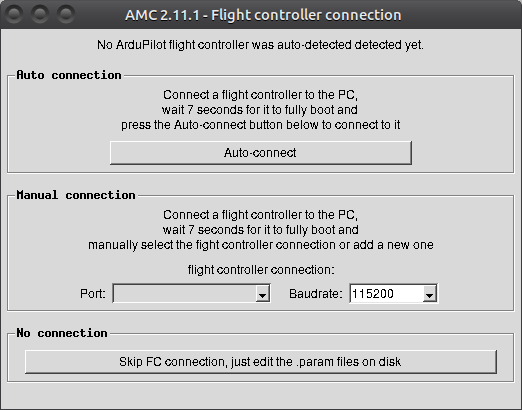
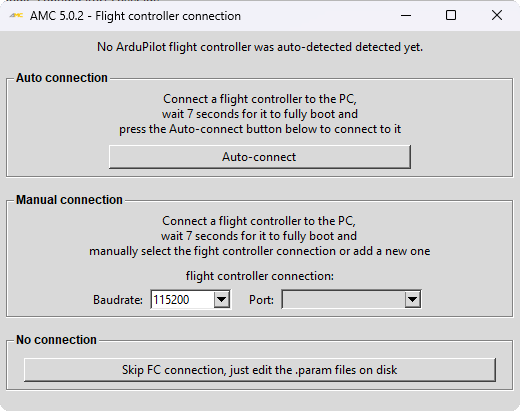
fix(connection selection): Move the baudrate selection to the left of the device selection
fixes #2334

Changed region(s): [[0.0, 0.0, 1.0, 1.0]]

diff --git a/scripts/regenerate_app_screenshots_fully_automated.py b/scripts/regenerate_app_screenshots_fully_automated.py
@@ -18,6 +18,7 @@ from __future__ import annotations
 
 import argparse
 import logging
+import os
 import platform
 import re
 import shutil
@@ -27,6 +28,7 @@ import tkinter as tk
 import tkinter.font as tk_font
 from contextlib import contextmanager
 from dataclasses import dataclass
+from datetime import UTC, datetime
 from pathlib import Path
 from tkinter import simpledialog, ttk
 from typing import TYPE_CHECKING, cast
@@ -42,6 +44,7 @@ from ardupilot_methodic_configurator.backend_filesystem import LocalFilesystem
 from ardupilot_methodic_configurator.backend_filesystem_program_settings import ProgramSettings
 from ardupilot_methodic_configurator.backend_firmware_upload import FirmwareBoardInfo, FirmwareUploadService
 from ardupilot_methodic_configurator.backend_flightcontroller import FlightController
+from ardupilot_methodic_configurator.backend_flightcontroller_files import FlightControllerLogFile
 from ardupilot_methodic_configurator.data_model_data_telemetry import (
     MessageRate,
     MessageSample,
@@ -56,6 +59,7 @@ from ardupilot_methodic_configurator.frontend_tkinter_about_popup_window import 
 from ardupilot_methodic_configurator.frontend_tkinter_base_window import BaseWindow
 from ardupilot_methodic_configurator.frontend_tkinter_connection_selection import ConnectionSelectionWindow
 from ardupilot_methodic_configurator.frontend_tkinter_fc_banner_window import FlightControllerBannerWindow
+from ardupilot_methodic_configurator.frontend_tkinter_file_browser import FileBrowserWindow, _standalone_ui_services
 from ardupilot_methodic_configurator.frontend_tkinter_firmware_upload import FirmwareUploadWindow
 from ardupilot_methodic_configurator.frontend_tkinter_flightcontroller_info import FlightControllerInfoWindow
 from ardupilot_methodic_configurator.frontend_tkinter_mavlink_inspector import MavlinkInspectorWindow
@@ -97,6 +101,7 @@ TARGETS: tuple[CaptureTarget, ...] = (
     CaptureTarget("App_screenshot_about.png", "about"),
     CaptureTarget("App_screenshot_FC_connection.png", "connection"),
     CaptureTarget("App_screenshot_FC_connection_add_another.png", "connection_add_another"),
+    CaptureTarget("App_screenshot_FC_connection_no_connection.png", "connection_no_connection"),
     CaptureTarget("App_screenshot_FC_connection_udp_forwarding.png", "connection_udp_forwarding"),
     CaptureTarget("App_screenshot_FC_info_and_param_download.png", "fc_info"),
     CaptureTarget("App_screenshot_FC_banner.png", "fc_banner"),
@@ -104,6 +109,8 @@ TARGETS: tuple[CaptureTarget, ...] = (
     CaptureTarget("App_screenshot_motor_test.png", "motor_test"),
     CaptureTarget("App_screenshot_rc_calibration.png", PLUGIN_RC_CALIBRATION),
     CaptureTarget("App_screenshot_Parameter_export.png", "parameter_export"),
+    CaptureTarget("App_screenshot_MAVFTP_browser.png", "mavftp_browser"),
+    CaptureTarget("App_screenshot_MAVFTP_remote_panel.png", "mavftp_remote_panel"),
     CaptureTarget("App_screenshot_MAVLink_inspector.png", "mavlink_inspector", variant="radio"),
     CaptureTarget("App_screenshot_MAVLink_inspector_no_radio.png", "mavlink_inspector", variant="no_radio"),
     CaptureTarget("App_screenshot_MAVLink_inspector_collapsed.png", "mavlink_inspector", variant="collapsed"),
@@ -555,13 +562,17 @@ def capture_widget(  # pylint: disable=too-many-arguments, too-many-positional-a
             if rel_right > rel_left and rel_bottom > rel_top:
                 draw.rectangle((rel_left, rel_top, rel_right, rel_bottom), outline="red", width=3)
 
-    # Crop superfluous pixels on Windows before resizing
-    if platform.system() == "Windows" and trim_windows_frame:
-        crop_left = 15
-        crop_right = 15
-        crop_bottom = 20
-        if image.width > crop_left + crop_right and image.height > crop_bottom:
-            image = image.crop((crop_left, 0, image.width - crop_right, image.height - crop_bottom))
+    # Remove the Windows shadow while retaining the title bar and all client pixels.
+    if platform.system() == "Windows" and trim_windows_frame and isinstance(widget, (tk.Tk, tk.Toplevel)):
+        left = max(widget.winfo_rootx() - x - padding, 0)
+        right = min(widget.winfo_rootx() - x + widget.winfo_width() + padding, image.width)
+        bottom = min(widget.winfo_rooty() - y + widget.winfo_height() + padding, image.height)
+        image = image.crop((left, 0, right, bottom))
+        if padding == 0:
+            image = image.convert("RGBA")
+            mask = Image.new("L", image.size, 0)
+            ImageDraw.Draw(mask).rounded_rectangle((0, 0, image.width - 1, image.height - 1), radius=8, fill=255)
+            image.putalpha(mask)
 
     if scale != 1.0:
         new_size = (round(image.width * scale), round(image.height * scale))
@@ -591,14 +602,28 @@ def _capture_about(output_path: Path, delay: float, padding: int) -> None:
         about_window.destroy()
 
 
-def _capture_connection(output_path: Path, delay: float, padding: int) -> None:
+def _capture_connection(output_path: Path, delay: float, padding: int, *, highlight_skip: bool = False) -> None:
     flight_controller = FakeConnectionFlightController()
     window = ConnectionSelectionWindow(
         cast("FlightController", flight_controller),
         "No ArduPilot flight controller was auto-detected yet.",
     )
     try:
-        capture_widget(window.root, output_path, delay, padding)
+        window.root.attributes("-topmost", 1)
+        window.root.geometry("+100+100")
+        window.root.lift()
+        pyautogui.moveTo(20, 20)
+        settle_tk(window.root)
+        highlight_boxes = None
+        if highlight_skip:
+            highlight_boxes = [
+                _required_widget_box(
+                    window.root,
+                    lambda widget: _widget_text(widget) == translate("Skip FC connection, just edit the .param files on disk"),
+                    "Could not find the skip connection button",
+                )
+            ]
+        capture_widget(window.root, output_path, delay, padding, highlight_boxes=highlight_boxes)
     finally:
         if hasattr(window, "connection_selection_widgets"):
             window.connection_selection_widgets.stop_periodic_refresh()
@@ -1392,6 +1417,8 @@ def capture_target(target: CaptureTarget, output_path: Path, args: argparse.Name
         return
 
     match action:
+        case "connection_no_connection":
+            _capture_connection(output_path, delay, padding, highlight_skip=True)
         case "connection_add_another" | "connection_udp_forwarding":
             _capture_connection_forwarding(
                 output_path,

diff --git a/ardupilot_methodic_configurator/frontend_tkinter_connection_selection.py b/ardupilot_methodic_configurator/frontend_tkinter_connection_selection.py
@@ -72,9 +72,29 @@ class ConnectionSelectionWidgets:  # pylint: disable=too-many-instance-attribute
         selection_frame = ttk.Frame(self.container_frame)
         selection_frame.pack(side=tk.TOP, pady=(4, 0))
 
+        # Create a label for baudrate
+        baudrate_label = ttk.Label(selection_frame, text=_("Baudrate:"))
+        baudrate_label.pack(side=tk.LEFT, padx=(0, 5))
+
+        # Create a combobox for baudrate selection
+        self.baudrate_var = tk.StringVar(value=str(self.default_baudrate))
+        self.baudrate_combobox = ttk.Combobox(
+            selection_frame,
+            textvariable=self.baudrate_var,
+            values=SUPPORTED_BAUDRATES,
+            state="normal",
+            width=10,
+        )
+        self.baudrate_combobox.pack(side=tk.LEFT, padx=(0, 5))
+        self.baudrate_combobox.bind("<<ComboboxSelected>>", self.on_baudrate_combobox_change, "+")
+        show_tooltip(
+            self.baudrate_combobox,
+            _("Select the baudrate for the connection\nMost flight controllers use 115200"),
+        )
+
         # Create a label for port
         port_label = ttk.Label(selection_frame, text=_("Port:"))
-        port_label.pack(side=tk.LEFT, padx=(0, 5))
+        port_label.pack(side=tk.LEFT, padx=(10, 5))
         # Load saved connection history from ProgramSettings and cache it to avoid
         # repeated disk reads on every periodic port-refresh cycle.
         self._connection_history_cache: list[str] = ProgramSettings.get_connection_history()
@@ -96,26 +116,6 @@ class ConnectionSelectionWidgets:  # pylint: disable=too-many-instance-attribute
         show_tooltip(
             self.conn_selection_combobox,
             _("Select the flight controller connection\nYou can add a custom connection to the existing ones"),
-        )
-
-        # Create a label for baudrate
-        baudrate_label = ttk.Label(selection_frame, text=_("Baudrate:"))
-        baudrate_label.pack(side=tk.LEFT, padx=(10, 5))
-
-        # Create a combobox for baudrate selection
-        self.baudrate_var = tk.StringVar(value=str(self.default_baudrate))
-        self.baudrate_combobox = ttk.Combobox(
-            selection_frame,
-            textvariable=self.baudrate_var,
-            values=SUPPORTED_BAUDRATES,
-            state="normal",
-            width=10,
-        )
-        self.baudrate_combobox.pack(side=tk.LEFT, padx=(0, 5))
-        self.baudrate_combobox.bind("<<ComboboxSelected>>", self.on_baudrate_combobox_change, "+")
-        show_tooltip(
-            self.baudrate_combobox,
-            _("Select the baudrate for the connection\nMost flight controllers use 115200"),
         )
 
         # Start periodic port refresh
